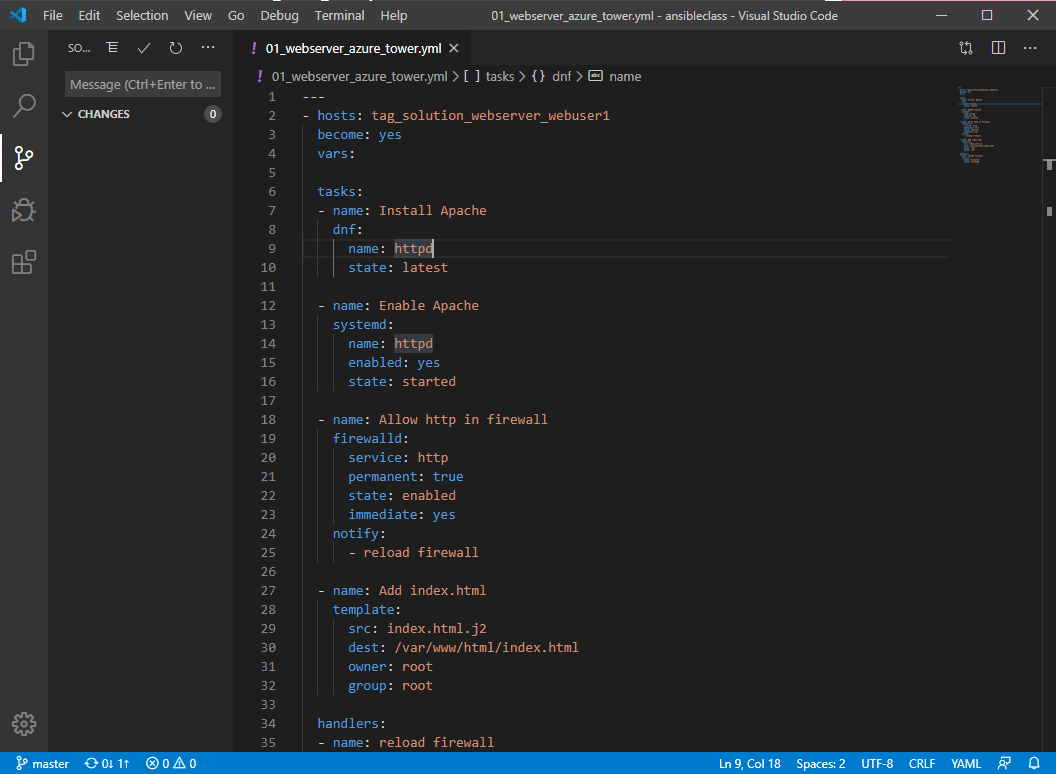
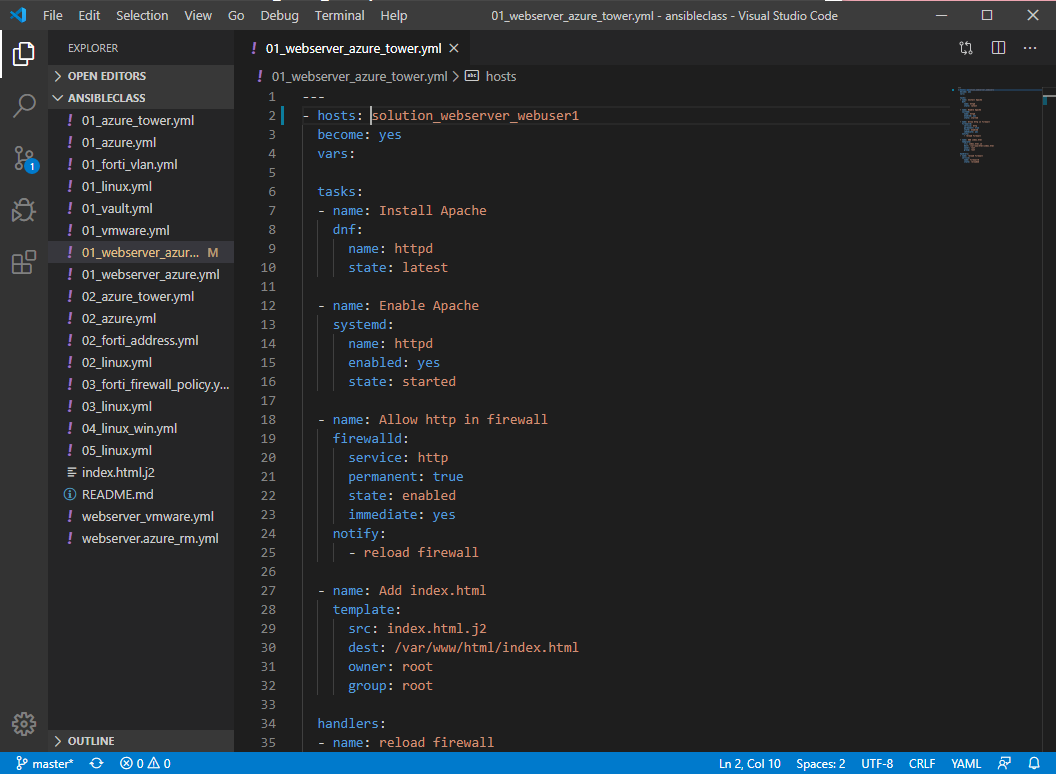
change tag

diff --git a/lab07/lab7.md b/lab07/lab7.md
@@ -300,7 +300,7 @@ Create a copy of 01_webserver_azure.yml -> 01_webserver_azure_tower.yml
 
 Change the hosts: to match your webuserx
 
-- hosts: tag_solution_webserver_webuserx
+- hosts: solution_webserver_webuserx
 
 Remove both vars:
 
